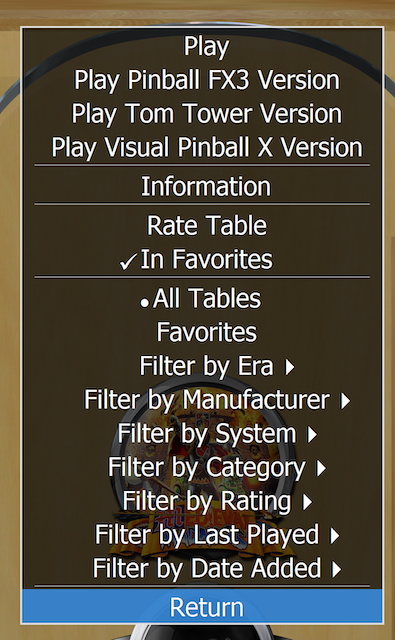
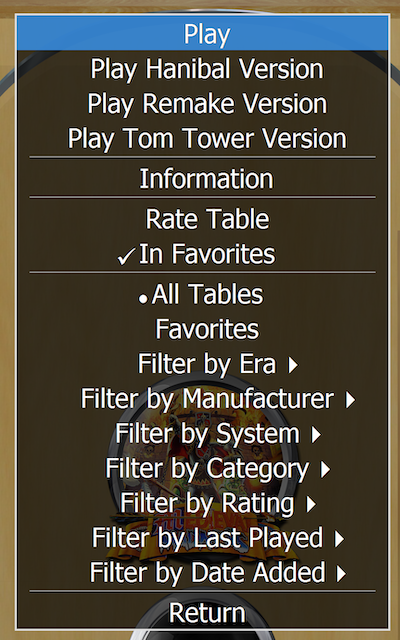
flesh out versions a bit more

diff --git a/README.md b/README.md
@@ -9,8 +9,9 @@ There are a few tables that have multiple versions and I did not want to install
 
 ```
      Play
-     Play Knorr Version
-     Play Hannibal Version
+     Play Hanibal Version
+     Play Remake Version
+     Play Tom Tower Version
      Play Pinball FX3 Version
 ```
 
@@ -30,13 +31,22 @@ You have to set up your tables first. Choose one, your favorite as the *default*
 
 Set up your alternate tables just like any other table in PinballY. Add all the same details, table videos, wheel logo, etc. as any other (and your default) table. They can be the same or different from the default table at your choosing. You will see these tables media items when you launch the table so it is nice to have them set. Also, you will be able to see these tables when `Show Alternate Versions` is selected in the `Operator Menu` (see below).
 
-To make this script work properly, your alternate tables **must have the same base name as your default table** in PinballY, followed by the version name in parenthesis and then the (manufacturer year) label. This is *not* the file name, but PinballY's name/title/description of the table. If you poke at the XML it's the `<description>` element.
+To make this script work properly, your alternate tables **must have the same base name as your default table** in PinballY, followed by the version name in parenthesis and then the (manufacturer year) label. This is *not* the file name, but PinballY's name/title/description of the table. If you poke at the XML it's the `<description>` element. The text must match up to the second to last item in parenthesis.
 
-Back to my example:
+For example with AC/DC's LUCI table, you could have two versions; the standard version, and the *adult* version. The first item is the default and the adult version is the alternate version that can be chosen from the Play menu. Note the `(Adult)`. This is what will get used to display on the Play menu as `Play Adult Version`. It's the second to last parenthetical.
+
+```
+     AC-DC (LUCI Premium) (Williams 1997)
+     AC-DC (LUCI Premium) (Adult) (Williams 1997)
+```
+
+In the earlier Medieval Madness example, my tables look like this:
+
 ```
 	Medieval Madness (Williams 1997)
-	Medieval Madness (Knorr) (Williams 1997)
-	Medieval Madness (Hannibal) (Williams 1997)
+	Medieval Madness (Hanibal) (Williams 1997)
+	Medieval Madness (Remake) (Chicago Gaming Company 2015)
+	Medieval Madness (Tom Tower) (Williams 1997)
 	Medieval Madness (Williams 1997)
 ```
 
@@ -44,13 +54,19 @@ Note that last one. The name is identical to the default first one. There's a li
 
 For each of your alternate tables you also need to assign them the category `isAlternateVersion`. You should do this using the PinballY user interface, under edit game, select categories. These are the normal PinballY categories. The category (or tag) serves two purposes:
 
-1. There is a *metafilter* added that hides/shows alternate version tables from the main menu. This can be enabled/disabled in the Operator Menu. If `Show Alternate Versions` is on, then all tables, inclding the alternate versions will appear on the wheel (use this mode to configure the alternate versions). If `Show Alternate Versions` is off then you will only see one wheel item for each of your default tables. The alternate versions will appear in the `Play` menu in both cases.
+1. There is a *metafilter* added that hides/shows alternate version tables from the main menu. This can be enabled/disabled in the Operator Menu. If `Show Alternate Versions` is on, then all tables, including the alternate versions will appear on the wheel (use this mode to configure the alternate versions). If `Show Alternate Versions` is off then you will only see one wheel item for each of your default tables. The alternate versions will appear in the `Play` menu in both cases.
 
 2. The category is used to make sure we don't add the default table to the `Play` menu twice. The code only adds the tables with `isAlternateVersion` to the `Play` menu and leaves the default `Play` menu for the default table.
 
+## Thoughts
+
+You are not limited to using this for different *builds* of the same table from different table creators. You could launch different versions of a pinball title. The best example I can find with this is the *Playboy* tables where there is a 1978, 1989, and 2002 version. They are completely different tables, but they could all be launched from the same wheel if you wanted.
+
+You are not limited to using the same *system* to launch tables. The Medieval Madness example above showed how you could have Visual Pinball X as the default table and launch the Pinball FX3 version as an alternate, again both under the same wheel item.
+
 ## Issues
 
-Tables like this get mixed up and the alternates show up for both default tables. I need to tweak the finding of alternate tables code to be more precise on locating the alternate tables. Could also be solved by using my own database (csv file) of tables and their alternates.
+Tables like Playboy get mixed up and the alternates show up for both default tables. I need to tweak the finding of alternate tables code to be more precise on locating the alternate tables. Could also be solved by using my own database (csv file) of tables and their alternates.
 
 ```
 <description>Playboy (Bally 1978)</description>
